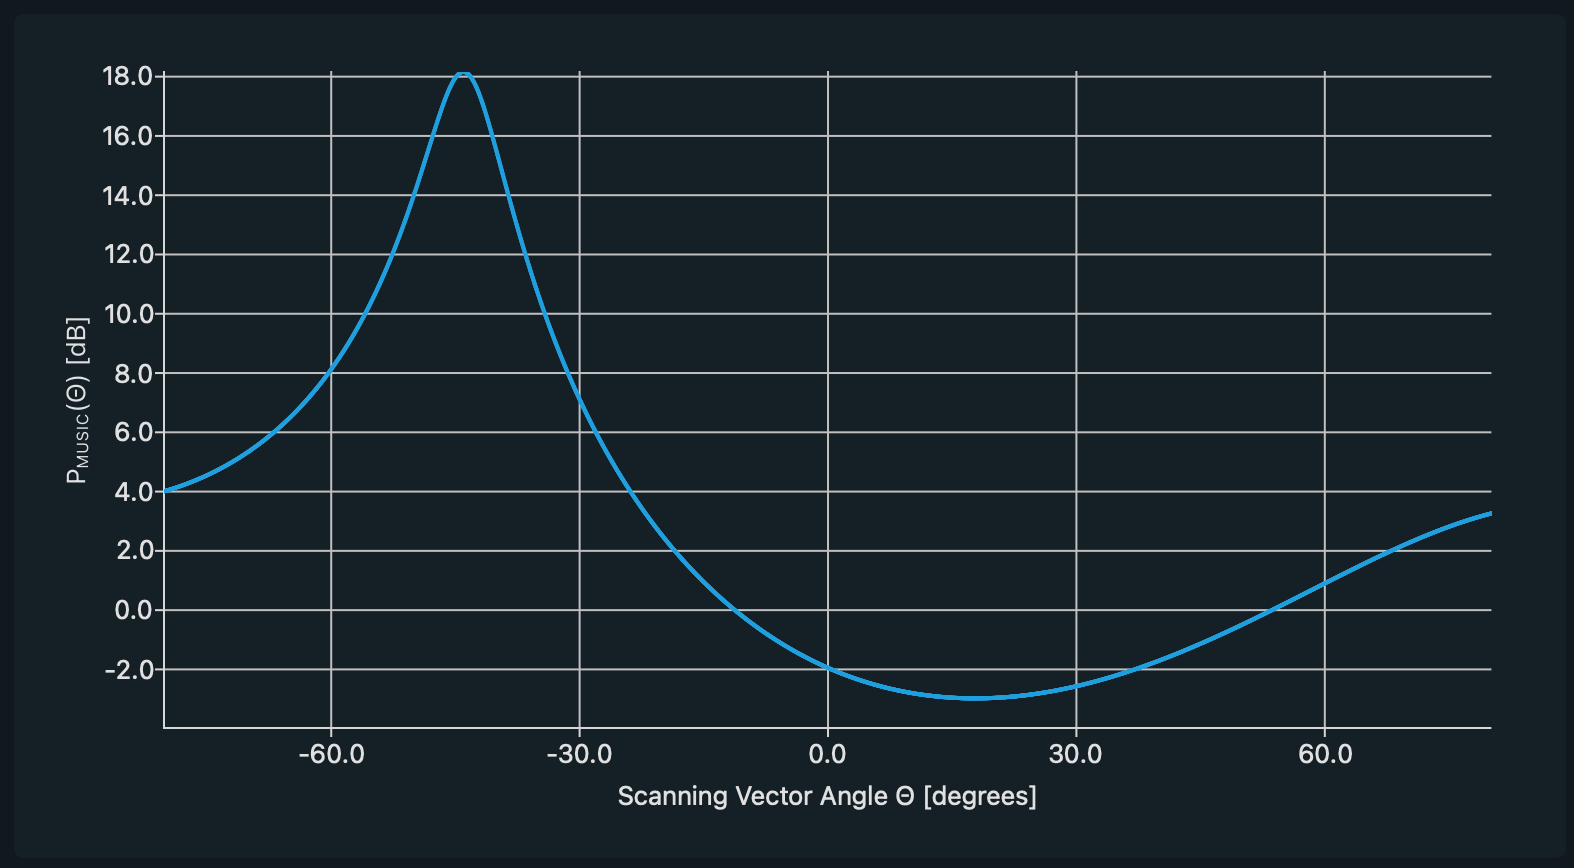
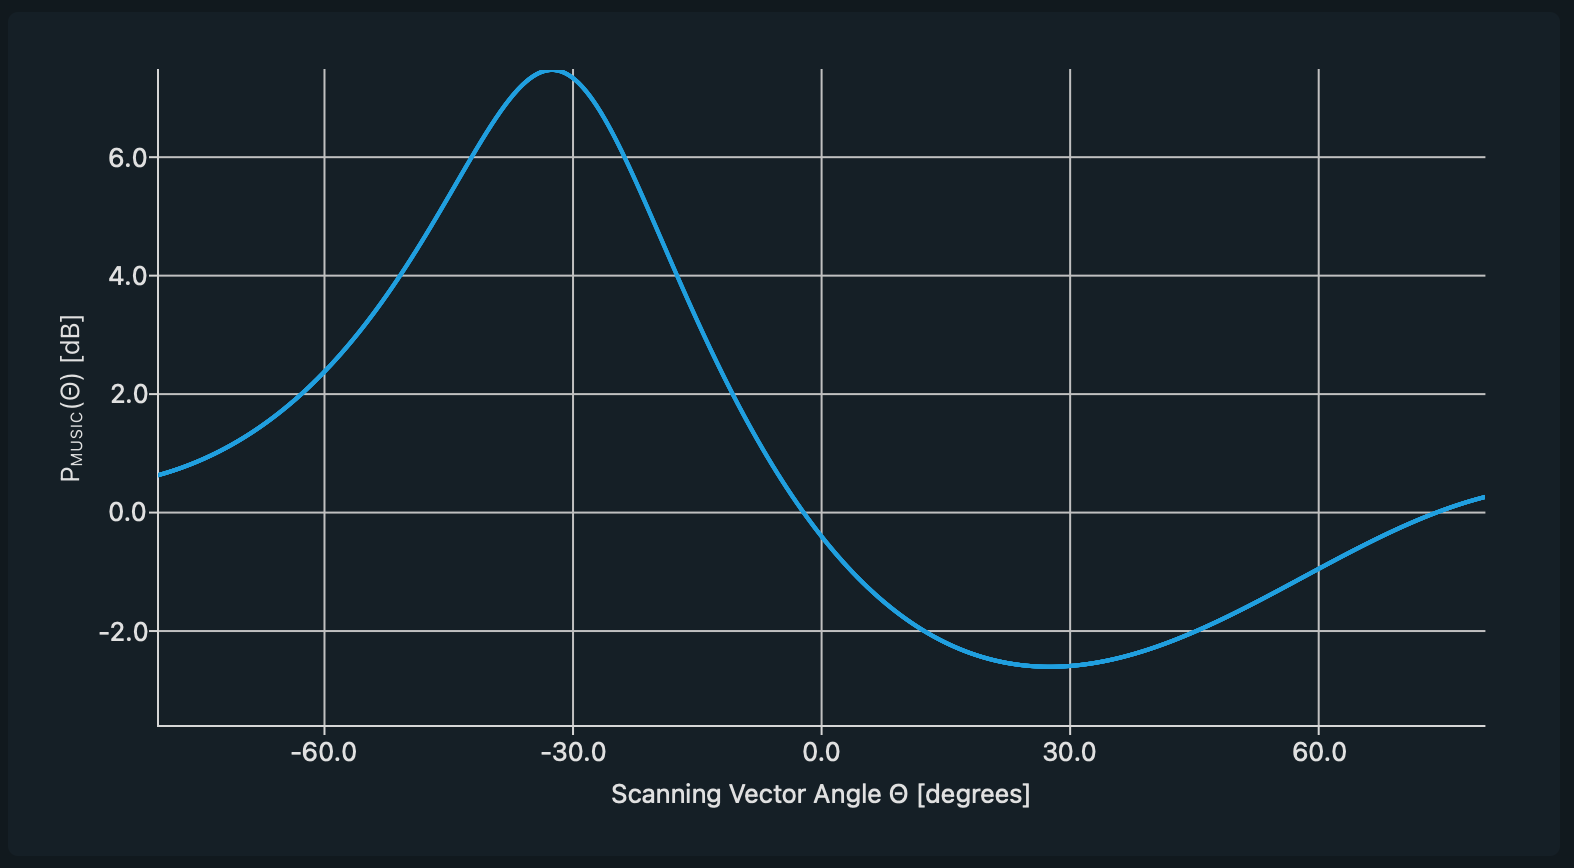
Measurement

Changed region(s): [[0.0311, 0.0622, 0.9651, 0.9332], [0.8094, 0.4044, 0.8717, 0.4666], [0.8094, 0.4977, 0.8717, 0.5288]]

diff --git a/matlab/music_125MHz_M64_1m_-45deg/cfr.m b/matlab/music_125MHz_M64_1m_-45deg/cfr.m
@@ -1,38 +1,38 @@
 % Auto-generated MATLAB script
 clear;
-CH0_312 = [ ...
-0 + 1i*0, 1.65419 + 1i*1.16148, 1.60583 + 1i*1.18855, 1.55429 + 1i*1.21214, 1.49986 + 1i*1.2321,  ...
-1.44285 + 1i*1.2483, 1.38355 + 1i*1.26062, 1.32227 + 1i*1.26893, 0 + 1i*0, 0 + 1i*0,  ...
-0 + 1i*0, 0 + 1i*0, 0 + 1i*0, 0.930129 + 1i*1.22964, 0.863597 + 1i*1.20762,  ...
-0.797553 + 1i*1.18108, 0.732304 + 1i*1.15001, 0.668148 + 1i*1.11441, 0.605381 + 1i*1.07429, 0.544291 + 1i*1.0297,  ...
-0.485157 + 1i*0.980662, 0.428248 + 1i*0.92724, 0.373823 + 1i*0.869496, 0.322127 + 1i*0.807505, 0.273391 + 1i*0.741351,  ...
-0.227829 + 1i*0.671126, 0 + 1i*0, 0 + 1i*0, 0 + 1i*0, 0 + 1i*0,  ...
+CH0_314 = [ ...
 0 + 1i*0, 0 + 1i*0, 0 + 1i*0, 0 + 1i*0, 0 + 1i*0,  ...
-0 + 1i*0, 0 + 1i*0, 0 + 1i*0, 0 + 1i*0, 0.883734 + 1i*-0.0254616,  ...
-1.0134 + 1i*-0.00133123, 1.13342 + 1i*0.0290424, 1.2439 + 1i*0.0647961, 1.34495 + 1i*0.10514, 1.43674 + 1i*0.149353,  ...
-1.51946 + 1i*0.196775, 1.59332 + 1i*0.246804, 1.65855 + 1i*0.298889, 1.71539 + 1i*0.352526, 1.76408 + 1i*0.407252,  ...
-1.80488 + 1i*0.462643, 1.83806 + 1i*0.518307, 1.86389 + 1i*0.573883, 1.88262 + 1i*0.629035, 1.89454 + 1i*0.683454,  ...
-1.89991 + 1i*0.736848, 1.89901 + 1i*0.788944, 1.89211 + 1i*0.839489, 1.87948 + 1i*0.888239, 1.86141 + 1i*0.934968,  ...
-1.83817 + 1i*0.979459, 1.81003 + 1i*1.02151, 1.77728 + 1i*1.06091, 1.7402 + 1i*1.0975];
-CH1_312 = [ ...
-0 + 1i*0, -1.60924 + 1i*0.623624, -1.60881 + 1i*0.593852, -1.60504 + 1i*0.56333, -1.59793 + 1i*0.532235,  ...
--1.58748 + 1i*0.50074, -1.5737 + 1i*0.469012, -1.55659 + 1i*0.437216, 0 + 1i*0, 0 + 1i*0,  ...
-0 + 1i*0, 0 + 1i*0, 0 + 1i*0, -1.38398 + 1i*0.253668, -1.34354 + 1i*0.225632,  ...
--1.29974 + 1i*0.198684, -1.25259 + 1i*0.172947, -1.20205 + 1i*0.148538, -1.14813 + 1i*0.125568, -1.09078 + 1i*0.104142,  ...
--1.03 + 1i*0.0843579, -0.965737 + 1i*0.0663075, -0.89797 + 1i*0.0500745, -0.826655 + 1i*0.035734, -0.751742 + 1i*0.0233526,  ...
--0.673177 + 1i*0.0129873, 0 + 1i*0, 0 + 1i*0, 0 + 1i*0, 0 + 1i*0,  ...
+0 + 1i*0, 0 + 1i*0, 0.917564 + 1i*0.10048, 1.0467 + 1i*0.137898, 1.16559 + 1i*0.179307,  ...
+1.27446 + 1i*0.22408, 1.37356 + 1i*0.271639, 1.46317 + 1i*0.321453, 1.54356 + 1i*0.373033, 1.61499 + 1i*0.425925,  ...
+1.67777 + 1i*0.479714, 1.73217 + 1i*0.534014, 1.77849 + 1i*0.588466, 1.81702 + 1i*0.642738, 1.84806 + 1i*0.696522,  ...
+1.87189 + 1i*0.749529, 1.8888 + 1i*0.801488, 1.89911 + 1i*0.852148, 1.90308 + 1i*0.901272, 1.90103 + 1i*0.948637,  ...
+1.89323 + 1i*0.994032, 1.87998 + 1i*1.03726, 1.86157 + 1i*1.07814, 1.83828 + 1i*1.11648, 1.81042 + 1i*1.15214,  ...
+1.77825 + 1i*1.18494, 1.74208 + 1i*1.21474, 0 + 1i*0, 1.65887 + 1i*1.26482, 1.6124 + 1i*1.28484,  ...
+1.56307 + 1i*1.30137, 1.51116 + 1i*1.3143, 1.45695 + 1i*1.32355, 1.40072 + 1i*1.32902, 1.34277 + 1i*1.33065,  ...
 0 + 1i*0, 0 + 1i*0, 0 + 1i*0, 0 + 1i*0, 0 + 1i*0,  ...
-0 + 1i*0, 0 + 1i*0, 0 + 1i*0, 0 + 1i*0, -0.46704 + 1i*0.457231,  ...
--0.549914 + 1i*0.522829, -0.629982 + 1i*0.581542, -0.707181 + 1i*0.633672, -0.781453 + 1i*0.679513, -0.852747 + 1i*0.719352,  ...
--0.921016 + 1i*0.753474, -0.986216 + 1i*0.782154, -1.04831 + 1i*0.805664, -1.10726 + 1i*0.824269, -1.16304 + 1i*0.83823,  ...
--1.21562 + 1i*0.847801, -1.26497 + 1i*0.853233, -1.31108 + 1i*0.854772, -1.35392 + 1i*0.852657, -1.39348 + 1i*0.847125,  ...
--1.42974 + 1i*0.838406, -1.46269 + 1i*0.826726, -1.49232 + 1i*0.812308, -1.51863 + 1i*0.79537, -1.5416 + 1i*0.776125,  ...
--1.56123 + 1i*0.754782, -1.57753 + 1i*0.731546, -1.59047 + 1i*0.706617, -1.60008 + 1i*0.680193];
-figure;subplot(2,1,1); hold on;plot(abs(CH0_312), 'DisplayName', 'CH0_312');title('Channel Frequency Response Gain'); legend; grid on;
-subplot(2,1,2); hold on;plot(angle(CH0_312), 'DisplayName', 'CH0_312');title('Channel Frequency Response Phase'); legend; grid on;
-figure;plot(real(CH0_312), imag(CH0_312), '.', 'DisplayName', 'CH0_312'); hold on;title('CFR'); xlabel('Real'); ylabel('Imag'); axis equal; legend; grid on;
+0.973769 + 1i*1.25662, 0.911179 + 1i*1.23001, 0.848942 + 1i*1.19928, 0.787292 + 1i*1.16445, 0.726454 + 1i*1.12554,  ...
+0.666641 + 1i*1.08255, 0.608055 + 1i*1.03553, 0.550888 + 1i*0.984514, 0.495318 + 1i*0.929535, 0.441508 + 1i*0.870645,  ...
+0.389605 + 1i*0.807895, 0.33974 + 1i*0.741339, 0.292028 + 1i*0.671035, 0 + 1i*0, 0 + 1i*0,  ...
+0 + 1i*0, 0 + 1i*0, 0 + 1i*0, 0 + 1i*0];
+CH1_314 = [ ...
+0 + 1i*0, 0 + 1i*0, 0 + 1i*0, 0 + 1i*0, 0 + 1i*0,  ...
+0 + 1i*0, 0 + 1i*0, -0.544993 + 1i*-0.0573756, -0.628052 + 1i*-0.0332218, -0.704479 + 1i*-0.00105423,  ...
+-0.773892 + 1i*0.0381112, -0.836008 + 1i*0.0832935, -0.890639 + 1i*0.133552, -0.937681 + 1i*0.187988, -0.977101 + 1i*0.245749,  ...
+-1.00893 + 1i*0.306027, -1.03327 + 1i*0.368064, -1.05026 + 1i*0.431144, -1.06007 + 1i*0.494603, -1.06295 + 1i*0.557817,  ...
+-1.05914 + 1i*0.62021, -1.04893 + 1i*0.681251, -1.03264 + 1i*0.740447, -1.01061 + 1i*0.797348, -0.983172 + 1i*0.851542,  ...
+-0.950711 + 1i*0.902656, -0.913603 + 1i*0.950354, -0.872242 + 1i*0.994334, -0.827031 + 1i*1.03433, -0.778378 + 1i*1.0701,  ...
+-0.726704 + 1i*1.10145, -0.672428 + 1i*1.12821, 0 + 1i*0, -0.557777 + 1i*1.16741, -0.498262 + 1i*1.17966,  ...
+-0.437862 + 1i*1.18692, -0.377008 + 1i*1.18919, -0.316132 + 1i*1.18645, -0.255659 + 1i*1.17874, -0.196014 + 1i*1.16613,  ...
+0 + 1i*0, 0 + 1i*0, 0 + 1i*0, 0 + 1i*0, 0 + 1i*0,  ...
+0.121342 + 1i*0.994415, 0.163807 + 1i*0.951558, 0.202308 + 1i*0.905312, 0.236511 + 1i*0.855995, 0.266099 + 1i*0.803956,  ...
+0.290776 + 1i*0.74957, 0.310268 + 1i*0.693243, 0.324328 + 1i*0.635406, 0.332736 + 1i*0.576516, 0.335302 + 1i*0.517056,  ...
+0.331871 + 1i*0.457535, 0.322321 + 1i*0.398481, 0.306571 + 1i*0.340445, 0 + 1i*0, 0 + 1i*0,  ...
+0 + 1i*0, 0 + 1i*0, 0 + 1i*0, 0 + 1i*0];
+figure;subplot(2,1,1); hold on;plot(abs(CH0_314), 'DisplayName', 'CH0_314');title('Channel Frequency Response Gain'); legend; grid on;
+subplot(2,1,2); hold on;plot(angle(CH0_314), 'DisplayName', 'CH0_314');title('Channel Frequency Response Phase'); legend; grid on;
+figure;plot(real(CH0_314), imag(CH0_314), '.', 'DisplayName', 'CH0_314'); hold on;title('CFR'); xlabel('Real'); ylabel('Imag'); axis equal; legend; grid on;
 
-figure;subplot(2,1,1); hold on;plot(abs(CH1_312), 'DisplayName', 'CH1_312');title('Channel Frequency Response Gain'); legend; grid on;
-subplot(2,1,2); hold on;plot(angle(CH1_312), 'DisplayName', 'CH1_312');title('Channel Frequency Response Phase'); legend; grid on;
-figure;plot(real(CH1_312), imag(CH1_312), '.', 'DisplayName', 'CH1_312'); hold on;title('CFR'); xlabel('Real'); ylabel('Imag'); axis equal; legend; grid on;
+figure;subplot(2,1,1); hold on;plot(abs(CH1_314), 'DisplayName', 'CH1_314');title('Channel Frequency Response Gain'); legend; grid on;
+subplot(2,1,2); hold on;plot(angle(CH1_314), 'DisplayName', 'CH1_314');title('Channel Frequency Response Phase'); legend; grid on;
+figure;plot(real(CH1_314), imag(CH1_314), '.', 'DisplayName', 'CH1_314'); hold on;title('CFR'); xlabel('Real'); ylabel('Imag'); axis equal; legend; grid on;
 

diff --git a/matlab/music_125MHz_M64_1m_-45deg/cbdata.m b/matlab/music_125MHz_M64_1m_-45deg/cbdata.m
@@ -1,26 +1,26 @@
 % Auto-generated MATLAB script
 clear;
-CH1_312 = [ ...
--1.12943 + 1i*0.025192, -0.552157 + 1i*0.0296309, -1.16811 + 1i*0.0257641, 0.687919 + 1i*0.00383953, 1.11355 + 1i*-0.000905879,  ...
-1.32211 + 1i*-0.020563, 0.829321 + 1i*0.000601999, 0.923663 + 1i*-0.0149017, -1.06425 + 1i*-0.0320874, -0.604107 + 1i*-0.00137535,  ...
-1.98902 + 1i*0.0135369, -1.18226 + 1i*-0.0449516, 1.1383 + 1i*0.00496725, 1.68126 + 1i*0.0163133, -0.839096 + 1i*-0.0218934,  ...
--0.999917 + 1i*-0.0180009, -1.23371 + 1i*-0.0314166, -1.02012 + 1i*-0.0370996, 1.14531 + 1i*-0.0189647, 1.03382 + 1i*-0.0164764,  ...
--0.871299 + 1i*0.0152157, -0.560478 + 1i*0.000411183, -0.679342 + 1i*1.93045e-05, -0.703013 + 1i*0.0028766, 1.47046 + 1i*-0.00485085,  ...
--1.21377 + 1i*0.0153488, -1.76104 + 1i*0.0145165, 1.141 + 1i*0.00279967, 1.15875 + 1i*-0.010008, -0.713285 + 1i*0.0097793,  ...
--1.29199 + 1i*0.0262773, 0.852781 + 1i*0.0115401, 1.14704 + 1i*-0.00351794, -1.09184 + 1i*0.0312774, 1.17584 + 1i*0.010569,  ...
--1.25173 + 1i*0.0236726, -0.727027 + 1i*0.0308103, -1.36367 + 1i*0.0466291, -0.733278 + 1i*0.0336653, -1.2317 + 1i*0.0471065 ...
+CH1_314 = [ ...
+-1.13026 + 1i*0.111163, -0.535702 + 1i*0.0632907, -1.15107 + 1i*0.127385, 0.683497 + 1i*-0.0267505, 1.10335 + 1i*-0.0441684,  ...
+1.30908 + 1i*-0.111165, 0.847876 + 1i*-0.0487912, 0.903185 + 1i*-0.091175, -1.06235 + 1i*0.00450762, -0.545844 + 1i*0.0401255,  ...
+2.00776 + 1i*-0.0450955, -1.17648 + 1i*-0.0176605, 1.17162 + 1i*-0.00329646, 1.68047 + 1i*0.0239648, -0.852056 + 1i*0.0307833,  ...
+-1.01111 + 1i*0.0584452, -1.23722 + 1i*-0.0331162, -1.03046 + 1i*-0.0447968, 1.14531 + 1i*-0.142461, 1.00693 + 1i*-0.0925697,  ...
+-0.913231 + 1i*0.141031, -0.569306 + 1i*0.0826147, -0.701966 + 1i*0.0642672, -0.71021 + 1i*0.0587333, 1.4715 + 1i*-0.126502,  ...
+-1.24499 + 1i*0.0845135, -1.74728 + 1i*0.173032, 1.15977 + 1i*-0.0965672, 1.14168 + 1i*-0.104955, -0.728021 + 1i*0.0627517,  ...
+-1.26956 + 1i*0.123298, 0.88187 + 1i*-0.0626934, 1.14604 + 1i*-0.0992625, -1.08028 + 1i*0.108257, 1.16845 + 1i*-0.0951218,  ...
+-1.26252 + 1i*0.116627, -0.715398 + 1i*0.0756854, -1.36012 + 1i*0.16503, -0.726584 + 1i*0.0997541, -1.20997 + 1i*0.154132 ...
 ];
-CH0_312 = [ ...
--1.15527 + 1i*0.0361723, -0.579019 + 1i*0.0180496, -1.22592 + 1i*0.0317549, 0.65447 + 1i*-0.00156933, 1.09476 + 1i*0.000294549,  ...
-1.36935 + 1i*-0.0394342, 0.819331 + 1i*-0.00258035, 0.957036 + 1i*-0.0180371, -1.04431 + 1i*0.00137443, -0.658573 + 1i*0.032268,  ...
-1.98631 + 1i*-0.0134762, -1.17519 + 1i*-0.00594699, 1.11859 + 1i*-0.0119602, 1.70624 + 1i*-0.0195601, -0.806271 + 1i*0.0120761,  ...
--0.994869 + 1i*0.0294218, -1.24196 + 1i*0.0209877, -1.03642 + 1i*0.00933405, 1.13393 + 1i*-0.0550828, 1.04872 + 1i*-0.0371183,  ...
--0.857154 + 1i*0.0718183, -0.554601 + 1i*0.0522982, -0.688922 + 1i*0.0248245, -0.717404 + 1i*0.0216599, 1.48185 + 1i*-0.068115,  ...
--1.19546 + 1i*0.0384441, -1.80581 + 1i*0.099438, 1.09787 + 1i*-0.0437802, 1.18442 + 1i*-0.0699193, -0.687506 + 1i*0.0189269,  ...
--1.32947 + 1i*0.0572104, 0.824776 + 1i*-0.0365497, 1.1711 + 1i*-0.0583052, -1.08555 + 1i*0.0313317, 1.20304 + 1i*-0.0559913,  ...
--1.21529 + 1i*0.025876, -0.712462 + 1i*0.0154615, -1.36853 + 1i*0.0541635, -0.730594 + 1i*0.0263965, -1.2476 + 1i*0.044793 ...
+CH0_314 = [ ...
+-1.15462 + 1i*0.0471784, -0.564444 + 1i*0.0278928, -1.22096 + 1i*0.0570486, 0.658225 + 1i*-0.00658751, 1.09341 + 1i*-0.0100533,  ...
+1.36009 + 1i*-0.0462759, 0.828411 + 1i*-0.0114911, 0.956341 + 1i*-0.0419602, -1.05262 + 1i*0.00826591, -0.640519 + 1i*0.0395587,  ...
+1.98989 + 1i*-0.0280114, -1.17938 + 1i*0.00336263, 1.12755 + 1i*-0.0144437, 1.70051 + 1i*-0.014215, -0.820723 + 1i*0.0209356,  ...
+-1.00819 + 1i*0.0313364, -1.23415 + 1i*0.00176341, -1.02529 + 1i*-0.00639876, 1.14043 + 1i*-0.0790752, 1.04262 + 1i*-0.0624902,  ...
+-0.872787 + 1i*0.0817495, -0.565112 + 1i*0.0549064, -0.689607 + 1i*0.0368239, -0.718665 + 1i*0.0393618, 1.48794 + 1i*-0.0906398,  ...
+-1.19875 + 1i*0.0592152, -1.80496 + 1i*0.126427, 1.10915 + 1i*-0.0617721, 1.17578 + 1i*-0.0826305, -0.695377 + 1i*0.0328193,  ...
+-1.32961 + 1i*0.0795026, 0.836392 + 1i*-0.0422462, 1.16907 + 1i*-0.068785, -1.08392 + 1i*0.0581034, 1.20612 + 1i*-0.0740018,  ...
+-1.2307 + 1i*0.0490112, -0.708553 + 1i*0.0254534, -1.37311 + 1i*0.0764809, -0.737295 + 1i*0.0413403, -1.24465 + 1i*0.0753091 ...
 ];
-figure;plot(real(CH1_312), imag(CH1_312), '.', 'DisplayName', 'CH1_312'); hold on;
-plot(real(CH0_312), imag(CH0_312), '.', 'DisplayName', 'CH0_312'); hold on;
+figure;plot(real(CH1_314), imag(CH1_314), '.', 'DisplayName', 'CH1_314'); hold on;
+plot(real(CH0_314), imag(CH0_314), '.', 'DisplayName', 'CH0_314'); hold on;
 title('Received Data'); xlabel('Real'); ylabel('Imag'); axis equal; legend; grid on;
 
